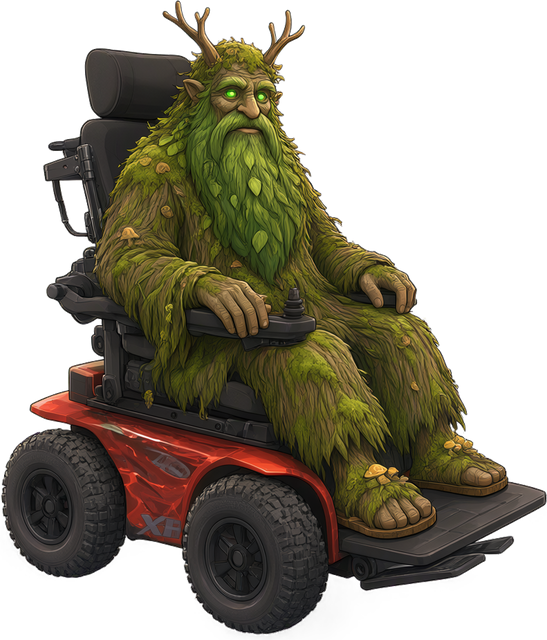
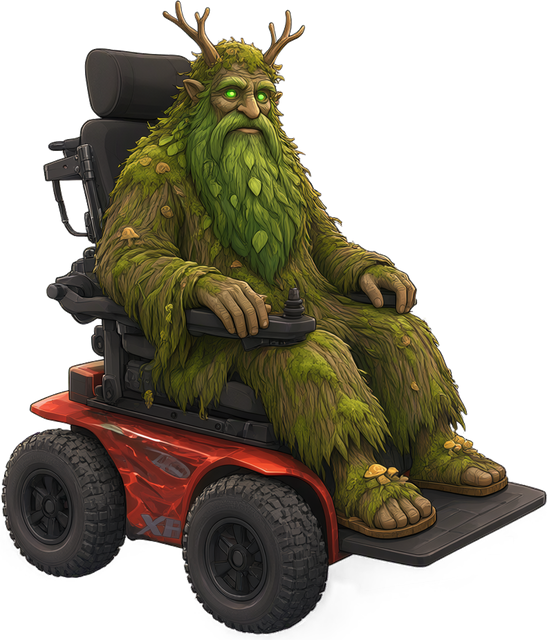
Портреты: одна подножка у Моры, Матильды, Сайры, Лешего; у Сайры убран второй джойстик (правка владельца) и белые тени под колёсами

Changed region(s): [[0.5905, 0.8125, 0.9324, 0.9375]]

diff --git a/art_tests/portrait_fix.py b/art_tests/portrait_fix.py
@@ -1,0 +1,110 @@
+"""Точечная правка готового портрета (Qwen Image 2.1 edit): лишняя вторая подножка и т.п. Портрет кладётся на белый
+квадрат 1024 (по центру), после правки обратно в assets идёт ТОЛЬКО изменившийся участок внутри зоны (лицо/поза не
+трогаются). python art_tests/portrait_fix.py <ключ> [seeds…]   -> scratchpad/poses/local/fix_<ключ>_s<seed>_9_0.png
+python art_tests/portrait_fix.py <ключ>=<seed> […]                -> вставка в assets/<портрет>.png"""
+import os, subprocess, sys
+from PIL import Image, ImageChops, ImageFilter
+
+HERE = os.path.dirname(os.path.abspath(__file__))
+ROOT = os.path.normpath(os.path.join(HERE, ".."))
+SP = r"C:\Users\wario\AppData\Local\Temp\claude\D--wheels-and-bones\d845888a-7a45-42b9-a337-635687a142cf\scratchpad"
+LOCAL = os.path.join(SP, "poses", "local")
+sys.path.insert(0, SP)
+
+FIX = {   # ключ: (портрет, что поправить, зона вставки x0,y0,x1,y1 в долях портрета)
+    "sorceress": ("client_sorceress.png",
+                  "Remove the second, lower pair of footplates under the front of the wheelchair (the two flat plates "
+                  "below and in front of the small front casters). Keep the one footplate her feet rest on, under the "
+                  "hem of her robe. Where the removed plates were, show the front casters and the white background.",
+                  (0.45, 0.68, 1.0, 1.0)),
+    "badger": ("client_f5.png",
+               "Remove the two angled footplates hanging low in front of the wheelchair at the bottom left. Her feet stay "
+               "exactly where they are, resting on the front of the seat platform. Where the removed footplates were, "
+               "show the white background.",
+               (0.0, 0.62, 0.6, 1.0)),
+    "lizard": ("client_whillc2.png",
+               "Remove the big lower footplate with the grid pattern at the very bottom front, between the two front "
+               "wheels. Keep the small footplate her feet rest on. Where the removed plate was, show the dark base of "
+               "the wheelchair and the white background.",
+               (0.25, 0.72, 0.95, 1.0)),
+    "leshy": ("client_leshy.png",
+              "Remove the second, thinner footplate sticking out under the big footplate at the front. Keep the one big "
+              "footplate his feet rest on. Where the removed plate was, show the white background.",
+              (0.45, 0.72, 1.0, 1.0)),
+}
+
+
+def square(portrait):
+    """Портрет на белом квадрате 1024 и как вернуть кадр назад (рамка в квадрате)."""
+    im = Image.open(os.path.join(ROOT, "assets", portrait)).convert("RGBA")
+    w, h = im.size
+    side = max(w, h)
+    bg = Image.new("RGBA", (side, side), (255, 255, 255, 255))
+    bg.alpha_composite(im, ((side - w) // 2, (side - h) // 2))
+    k = 1024 / side
+    box = tuple(round(v * k) for v in ((side - w) // 2, (side - h) // 2, (side - w) // 2 + w, (side - h) // 2 + h))
+    return im, bg.convert("RGB").resize((1024, 1024), Image.LANCZOS), box
+
+
+def node(cls, **inputs):
+    return dict(class_type=cls, inputs=inputs)
+
+
+def generate(key, seeds):
+    from comfy_client import upload, queue, wait, download
+    portrait, what, _ = FIX[key]
+    _, sq, _ = square(portrait)
+    tmp = os.path.join(LOCAL, f"fix_in_{key}.png")
+    sq.save(tmp)
+    i1 = upload(tmp, f"wnb_fix_{key}.png")
+    prompt = ("Edit <image1>. " + what + " Keep everything else EXACTLY the same: the character, face, pose, hands, "
+              "the rest of the wheelchair, colours, the clean cartoon art style, size and position in the frame. "
+              "Plain pure white background, no shadow, no text.")
+    ids = []
+    for seed in seeds:
+        g = {"1": node("UNETLoader", unet_name="qwen2.1\\qwen_image_2.1_int8_convrot.safetensors", weight_dtype="default"),
+             "2": node("QwenImage21Cache", model=["1", 0], device="auto", dtype="default"),
+             "3": node("CLIPLoader", clip_name="Qwen text_encoder\\qwen3vl_8b_int8_convrot.safetensors",
+                       type="qwen_image", device="default"),
+             "4": node("VAELoader", vae_name="qwen_image_2.1_vae_bf16.safetensors"),
+             "L0": node("LoadImage", image=i1),
+             "6": node("TextEncodeQwenImage21", clip=["3", 0], prompt=prompt, negative_prompt="", resolution=0,
+                       vae=["4", 0], **{"images.image_1": ["L0", 0]}),
+             "7": node("KSampler", model=["2", 0], seed=seed, steps=25, cfg=1.0, sampler_name="euler",
+                       scheduler="simple", denoise=1.0, positive=["6", 0], negative=["6", 1], latent_image=["6", 2]),
+             "8": node("VAEDecode", samples=["7", 0], vae=["4", 0]),
+             "9": node("SaveImage", images=["8", 0], filename_prefix=f"wnb/fix/{key}_s{seed}")}
+        ids.append((seed, queue(g)))
+    for seed, pid in ids:
+        for p in download(wait(pid, timeout=1800), LOCAL, f"fix_{key}_s{seed}"):
+            print(p)
+
+
+def install(key, seed):
+    portrait, _, zone = FIX[key]
+    cur, _, box = square(portrait)
+    w, h = cur.size
+    gen = os.path.join(LOCAL, f"fix_{key}_s{seed}_9_0.png")
+    name = f"fix_{key}"
+    subprocess.run([sys.executable, os.path.join(SP, "cut_new.py"), f"{name}={gen}"], check=True, cwd=SP,
+                   stdout=subprocess.DEVNULL)
+    cut = os.path.join(ROOT, "art_tests", "new_v1", "cut", name + ".png")
+    rep = os.path.join(LOCAL, name + "_rep.png")
+    subprocess.run([sys.executable, os.path.join(HERE, "alpha_repair.py"), gen, cut, rep], check=True,
+                   stdout=subprocess.DEVNULL)
+    new = Image.open(rep).convert("RGBA").crop(box).resize((w, h), Image.LANCZOS)
+    on_white = lambda im: Image.alpha_composite(Image.new("RGBA", im.size, (255, 255, 255, 255)), im).convert("RGB")
+    diff = ImageChops.difference(on_white(cur), on_white(new)).convert("L").point(lambda v: 255 if v > 40 else 0)
+    z = Image.new("L", (w, h), 0)
+    z.paste(255, tuple(round(f * s) for f, s in zip(zone, (w, h, w, h))))
+    mask = ImageChops.multiply(diff.filter(ImageFilter.MaxFilter(9)), z).filter(ImageFilter.GaussianBlur(2))
+    Image.composite(new, cur, mask).save(os.path.join(ROOT, "assets", portrait), optimize=True)
+    print(portrait, (w, h))
+
+
+args = sys.argv[1:]
+if "=" in args[0]:
+    for a in args:
+        install(*a.split("="))
+else:
+    generate(args[0], [int(s) for s in args[1:]] or [11, 22, 33])

diff --git a/AGENTS.md b/AGENTS.md
@@ -303,6 +303,13 @@ python i18n_work/build_lang.py       # перевод полон
 ## Журнал изменений
 Формат: `ГГГГ-ММ-ДД — агент/модель — что сделано (файлы)`. Новые записи — **сверху**.
 
+- 2026-10-22 — Claude (Opus 5.5) — **портреты: лишние подножки и джойстик**. Сайра — правка владельца (убран второй
+  джойстик под левой рукой; из его PNG взят только этот участок, прозрачность — прежняя) + убраны белые «тени» под
+  колёсами. Вторая подножка убрана у Моры, Матильды, Сайры, Лешего: `art_tests/portrait_fix.py <ключ> [seeds]` —
+  Qwen 2.1 edit по готовому портрету (FIX — что убрать и зона), `portrait_fix.py <ключ>=<seed>` — в assets идёт только
+  изменившийся участок внутри зоны (лицо и поза не трогаются). Выбраны seed 22. У Агаты две подножки — левая и правая
+  (так у ручной коляски), не трогали. (assets/client_sorceress|f5|whillc2|leshy.png, art_tests/portrait_fix.py)
+
 - 2026-10-22 — Claude (Opus 5.5) — **портреты клиентов в новых колясках** (Мора, Зикс, Матильда, Голем, Сайра, Леший,
   Горыныч, Агата с внуком, Агата в Кабинете посадки): `art_tests/portrait_chair.py <chair> <yaw>` — рендер новой
   коляски (оригинал Meshy в Blender) в ракурсе портрета; `portrait_reseat.py <ключ> [seeds]` — Qwen 2.1 edit: персонаж
